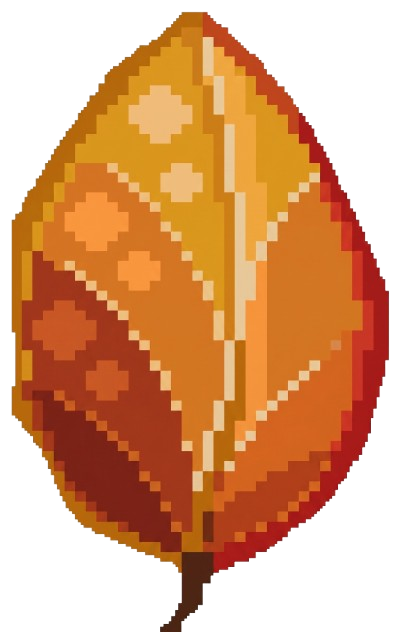
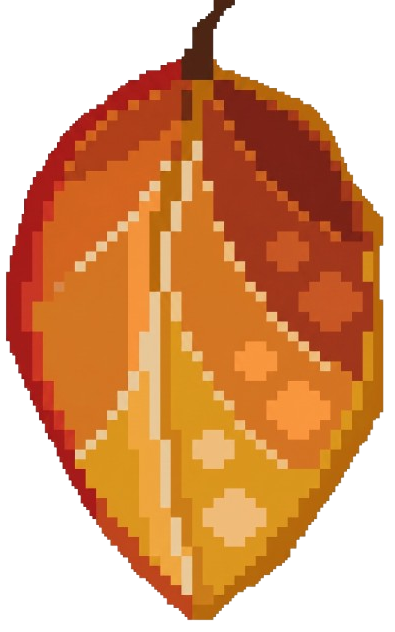
ajout du suivi sur l'ajout des effets visuels, son sur le portail

diff --git a/Src/IslandSurvivor/Scenes/Portal/Portal.cs b/Src/IslandSurvivor/Scenes/Portal/Portal.cs
@@ -1,38 +1,3 @@
-//using Godot;
-//using System;
-//using Core.Domain.Models;
-//using IslandSurvivor.Interfaces;
-
-//public partial class Portal : Node2D
-//{
-//	private AnimationPlayer m_animationPlayer;
-//	private PortalInteraction m_interactionArea;
-
-//	public override void _Ready()
-//	{
-//		m_animationPlayer = GetNode<AnimationPlayer>("AnimationPlayer");
-
-//		// The InteractionArea child has the script attached now
-//		m_interactionArea = GetNode<PortalInteraction>("InteractionArea");
-
-//		// Auto-activate the portal and point it to the Home Island if we are NOT in the PlayerHub.
-//		var currentScenePath = GetTree()?.CurrentScene?.SceneFilePath;
-//		if (currentScenePath != null && !currentScenePath.Contains("PlayerHub"))
-//		{
-//			ActivatePortal(IslandDestination.HomeIsland);
-//		}
-//	}
-
-//	public void ActivatePortal(IslandDestination p_destination)
-//	{
-//		m_animationPlayer.Play("ACTIVE");
-
-//		if (m_interactionArea != null)
-//		{
-//			m_interactionArea.SetDestination(p_destination);
-//		}
-//	}
-//}
 using Godot;
 using System;
 using Core.Domain.Models;
